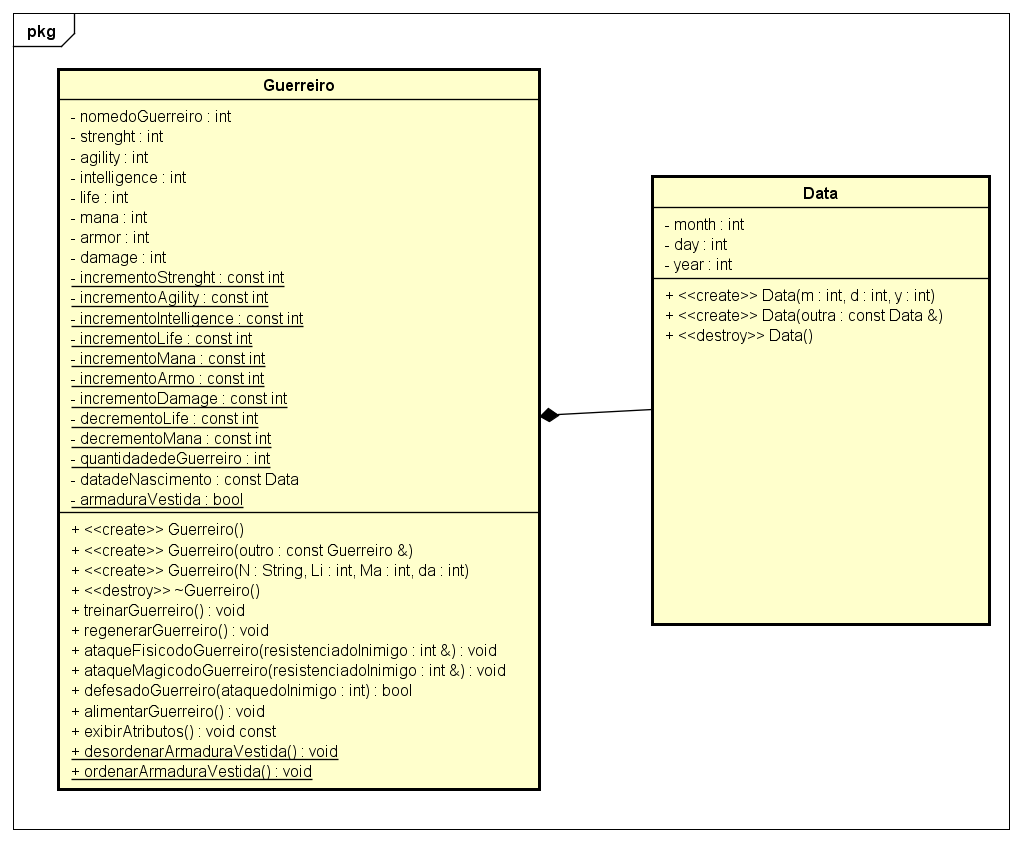
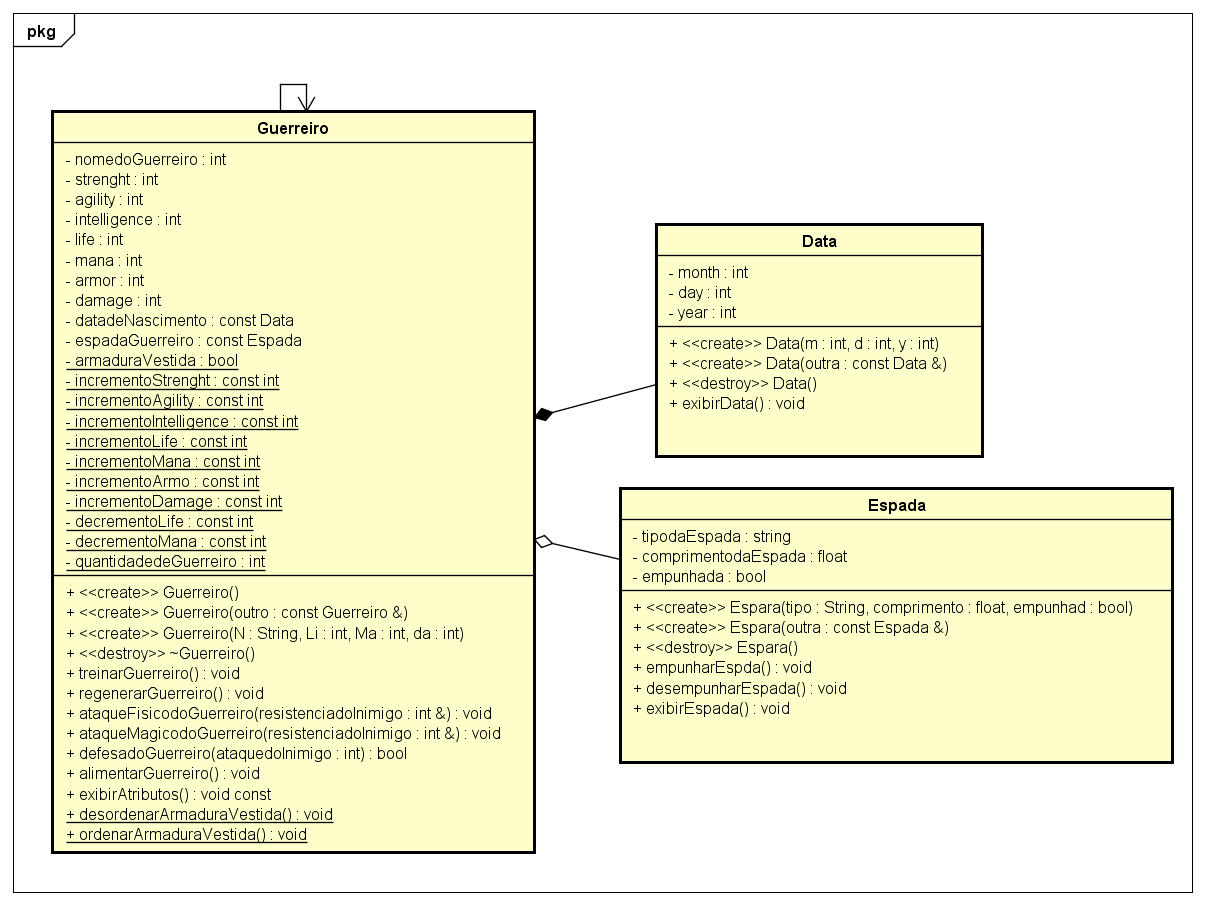
Atualização da UML.Implementação da classe Espada usada por agregação com Classe Guerreiro.

diff --git a/Guerreiro/Guerreiro.cpp b/Guerreiro/Guerreiro.cpp
@@ -20,22 +20,21 @@ const int Guerreiro::decrementoMana = 24;
 bool Guerreiro::armaduraVestida = false;
 
 Guerreiro::Guerreiro()
-:nomedoGuerreiro("Desconhecido"),strenght(33), agility(33),intelligence(33), life(1200), mana(600),armor(3), damage(33), datadeNascimento()
+:nomedoGuerreiro("Desconhecido"),strenght(33), agility(33),intelligence(33), life(1200), mana(600),armor(3), damage(33), datadeNascimento(), espadadoGuerreiro()
 {
     quantidadedeGuerreiros++;
 }
-Guerreiro::Guerreiro( const string &N, int Li, int Ma, int Da, int dia, int mes, int ano)
-:strenght(33), agility(33),intelligence(33),armor(3), datadeNascimento(dia, mes, ano)
+Guerreiro::Guerreiro( const string &N, int Li, int Ma, int Da, int dia, int mes, int ano, string tipo, float nome, bool emp)
+:strenght(33), agility(33),intelligence(33),armor(3), datadeNascimento(dia, mes, ano), espadadoGuerreiro(tipo, nome, emp)
 {
         this->nomedoGuerreiro = N;
         this->life = (Li > 0) ? Li : 1200;
         this->mana = (Ma > 0) ? Ma : 600;
-        this->damage = (Da > 0) ? Da : 33;
-        
+        this->damage = (Da > 0) ? Da : 33;        
         quantidadedeGuerreiros++;
 }
-Guerreiro::Guerreiro(const Guerreiro &outro, const Data &dataOutro)
-:datadeNascimento(dataOutro)
+Guerreiro::Guerreiro(const Guerreiro &outro, const Data &dataOutro, const Espada &espadaOutro)
+:datadeNascimento(dataOutro), espadadoGuerreiro(espadaOutro)
 {
     this->nomedoGuerreiro = outro.nomedoGuerreiro;
     this->strenght = outro.strenght;
@@ -127,7 +126,9 @@ void Guerreiro::treinarGuerreiro (){
 	cout<<"\n\nTodos os dias o Guerreiro "<<this->nomedoGuerreiro<<" treina cada um de seus atributos...";
 	cout<<"\nO treino foi concluido e o Guerreiro ganhou +2 em cada atributo e gastou 30 de mana.\nDescanse agora!\n";
 	
-	this->strenght += incrementoStrenght;
+    Sleep(3000); // tempo do treino.
+	
+    this->strenght += incrementoStrenght;
 	this->agility += incrementoAgility;
 	this->intelligence +=incrementoIntelligence;
 	this->armor += incrementoArmor;
@@ -136,10 +137,17 @@ void Guerreiro::treinarGuerreiro (){
 }
 void Guerreiro::regenerarGuerreiro (){
 	cout<<"\n\nO Guerreiro "<<this->nomedoGuerreiro<<" descansa para gerenerar nama gasta no dia, ganha +25 de mana...";
+    Sleep(3000); // tempo do treino.
 	this->mana += incrementoMana;
+}
+void Guerreiro::alimentarGuerreiro(){
+	cout<<"\n\nAo alimentar-se o Guerreiro ganha +13 de mana e +24 de vida";
+	this->mana += incrementoMana;
+	this->life + incrementoLife;
 }
 
 void Guerreiro::ataqueFisicodoGuerreiro (int &armordoInimigo ){
+    
     cout<<"\n\nO Guerreiro esta atacando fisicamente...\n";
 	if ( (this->damage + this->strenght/4) > armordoInimigo)
         armordoInimigo -= this->damage/3;  
@@ -164,18 +172,15 @@ void Guerreiro::ataqueMagicodoGuerreiro (int &armordoInimigo){
     if (armordoInimigo < 0) armordoInimigo = 0;
 }
 bool Guerreiro::defesadoGuerreiro( int ataquedoInimigo){
-    if (this->armor < ataquedoInimigo)
+    
+    if (this->armor < ataquedoInimigo )
         {
             this->life -= (ataquedoInimigo/this->armor);
+            cout<<"\nLife do Guerreiro "<<this->life<<std::endl;
             return false;
         }
     else
         return true;
-}
-void Guerreiro::alimentarGuerreiro(){
-	cout<<"\n\nAo alimentar-se o Guerreiro ganha +13 de mana e +24 de vida";
-	this->mana += incrementoMana;
-	this->life + incrementoLife;
 }
 void Guerreiro::exibirAtributos() const{
     cout<<"\n\nNome: "<<this->nomedoGuerreiro;
@@ -187,13 +192,14 @@ void Guerreiro::exibirAtributos() const{
     cout<<"\nArmor: "<<this->armor;
     cout<<"\nDamage: "<<this->damage<<std::endl;
     
-    datadeNascimento.exibir();
+    datadeNascimento.exibirData();
+    espadadoGuerreiro.exibirEspada();
 }
 void Guerreiro::ordenarArmaduraVestida()
 {
     if (armaduraVestida == false)
     {
-        cout<<"\nSeus guerreiros estao sem suas armaduras.\n Foi ordenado o vestimento da armadura ... \n";
+        cout<<"\nSeus guerreiros estao sem suas armaduras.\nFoi ordenado o vestimento da armadura ... \n";
         Sleep(3000);
         armaduraVestida = true;
     }

diff --git a/Guerreiro/Espada.cpp b/Guerreiro/Espada.cpp
@@ -1,0 +1,49 @@
+#include<iostream>
+#include "Espada.h"
+
+using std::cout;
+Espada::Espada(string tipo, float comprimento, bool emp)
+{
+    this->tipodaEspada = tipo;
+    
+    if (comprimento > 0)
+        this->comprimentodaEspada = comprimento;
+    else
+        this->comprimentodaEspada = 1.25;
+    
+    this->empunhada = emp;
+}
+Espada::Espada(const Espada &outra)
+{
+    this->tipodaEspada = outra.tipodaEspada;
+    this->comprimentodaEspada = outra.comprimentodaEspada;
+    this->empunhada = outra.empunhada;
+}
+Espada::~Espada()
+{
+}
+
+void Espada::empunharEspada()
+{
+    if (!this->empunhada)
+    {
+        this->empunhada = true;
+        cout<<"\nEspada empanhada!\n";
+    }
+    else
+        cout<<"\nA espada ja esta empunhada...\n";
+}
+void Espada::desempunharEspada()
+{
+        if(!this->empunhada)
+        {
+            this->empunhada = false;
+            cout<<"\nEspada desmpunhada.\n";
+        }
+        else
+            cout<<"\nA espada ja esta desempunhada.\n";
+}
+void Espada::exibirEspada() const
+{
+    cout<<"\nTipo da Espada: "<<this->tipodaEspada<<"\nComprimento (metros): "<<this->comprimentodaEspada<<"\nEmpunhada: "<<this->empunhada<<std::endl;
+}

diff --git a/Guerreiro/Guerreiro.h b/Guerreiro/Guerreiro.h
@@ -3,14 +3,15 @@
 
 #include <string>
 #include "Data.h"
+#include "Espada.h"
 using std::string;
 
 class Guerreiro
 {
 public:
     Guerreiro();
-    Guerreiro(const string&, int, int, int, int, int, int );
-    Guerreiro(const Guerreiro&, const Data&);
+    Guerreiro(const string&, int, int, int, int, int, int ,string, float, bool);
+    Guerreiro(const Guerreiro &, const Data &, const Espada &);
 
     ~Guerreiro();
 
@@ -53,6 +54,7 @@ private:
     int armor;
     int damage;
     const Data datadeNascimento;
+    const Espada espadadoGuerreiro;
     
     static bool armaduraVestida;
     

diff --git a/Guerreiro/main.cpp b/Guerreiro/main.cpp
@@ -6,8 +6,8 @@ using std::cout;
 using std::cin;
 
 int main(){
-	Guerreiro migo("MigoTiti", 1000, 300, 25, 21, 4, 1997);
-    Guerreiro max("Max", 1220, 600, 45, 14, 10, 1994);
+	Guerreiro migo("MigoTiti", 1000, 300, 25, 21, 4, 1997, "adamantium", 1.35, false);
+    Guerreiro max("Max", 1220, 600, 45, 14, 10, 1994,"valiriano", 1.25, true);
 
     int armor = 40;
 
@@ -15,6 +15,7 @@ int main(){
     max.exibirAtributos();
 
     Guerreiro::ordenarArmaduraVestida();
+    
     Guerreiro::desordenarArmaduraVestida();
     
         

diff --git a/Guerreiro/Espada.h b/Guerreiro/Espada.h
@@ -1,0 +1,24 @@
+#ifndef ESPADA_H
+#define ESPADA_H
+
+#include<string>
+
+using std::string;
+
+class Espada
+{
+public:
+    Espada(string = "adamantium", float = 1.25, bool = false);    
+    Espada(const Espada &);    
+    ~Espada();
+    
+    void empunharEspada();
+    void desempunharEspada();
+    void exibirEspada() const; 
+private:
+    string tipodaEspada;
+    float comprimentodaEspada;
+    bool empunhada;
+};
+
+#endif // ESPADA_H

diff --git a/Guerreiro/Data.cpp b/Guerreiro/Data.cpp
@@ -27,7 +27,7 @@ int Data::checkday(int dia) const
     std::cout<<"Dia Invalido.\n";
     return 1;
 }
-void Data::exibir() const
+void Data::exibirData() const
 {
     std::cout<<"Nascimento: "<<this->day<<"/"<<this->month<<"/"<<this->year<<std::endl;
 }

diff --git a/Guerreiro/Data.h b/Guerreiro/Data.h
@@ -8,7 +8,7 @@ public:
     Data(const Data &);
     ~Data();
     
-    void exibir () const;
+    void exibirData () const;
 private:
         int month;
         int day;
